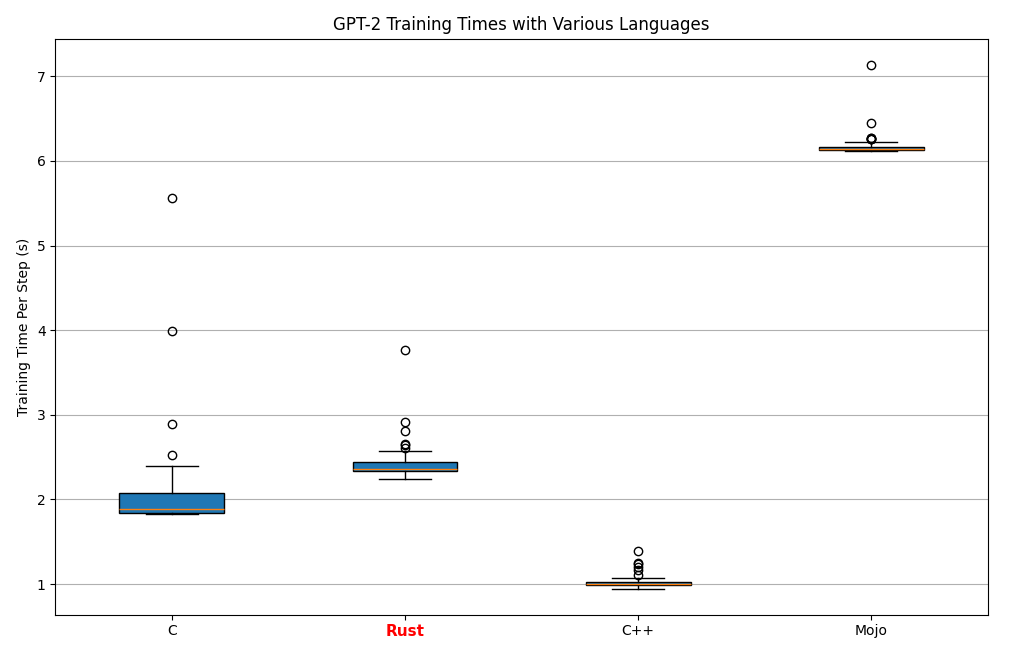
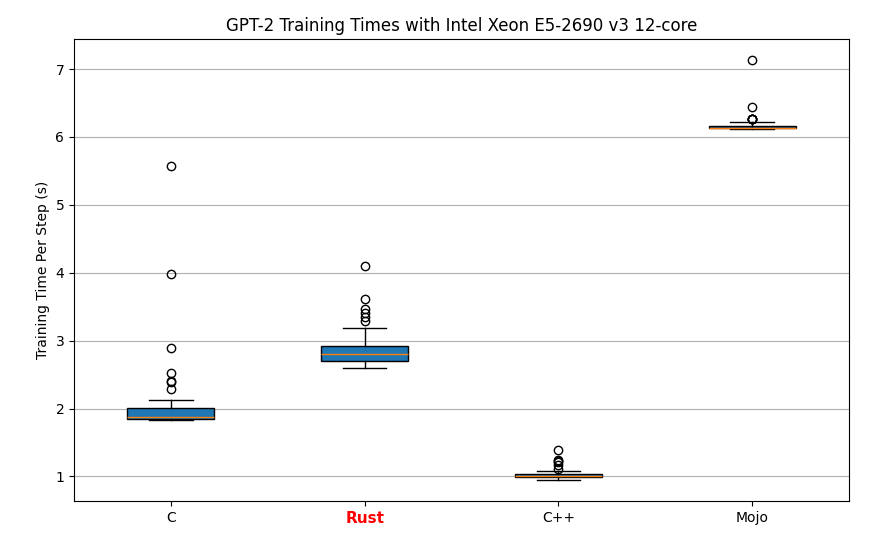
Missed updates to graph and table

diff --git a/README.md b/README.md
@@ -45,7 +45,7 @@ Plots were generated by the plot_gen/plot.py script where the results, namely st
 
 | C      | Rust   | C++    | Mojo   |
 |--------|--------|--------|--------|
-| 2.110s | 2.439s | 1.037s | 6.190s |
+| 2.110s | 2.908s | 1.037s | 6.190s |
 
 ![LLM Training Results on Intel Xeon E5-2690 v3 12-core](images/llm_training_results_xeon_e5.PNG)
 
